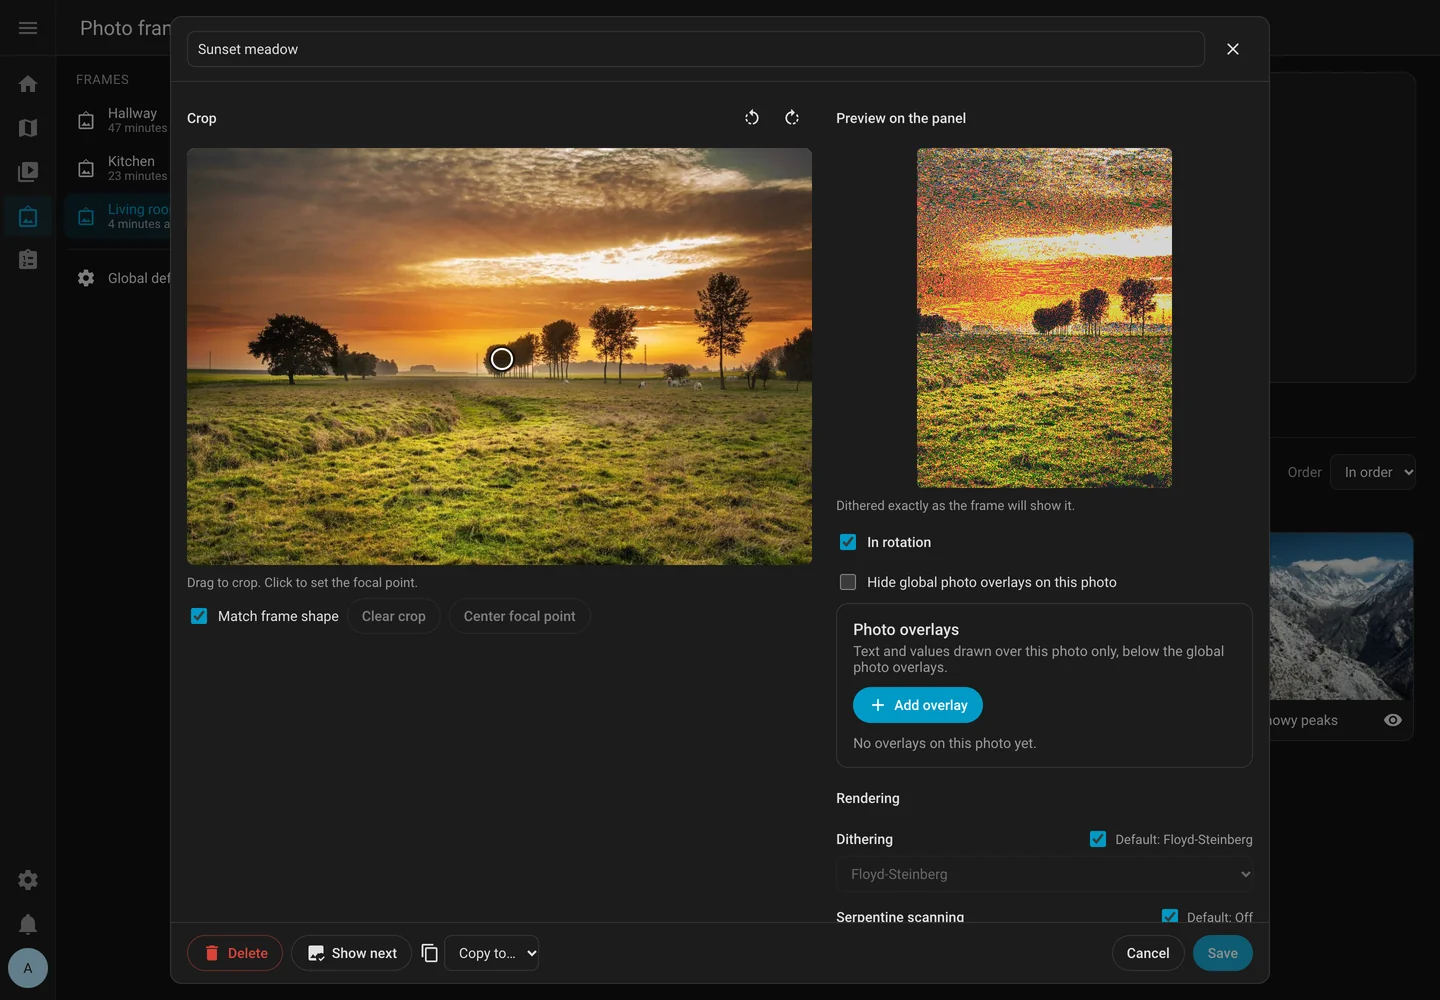
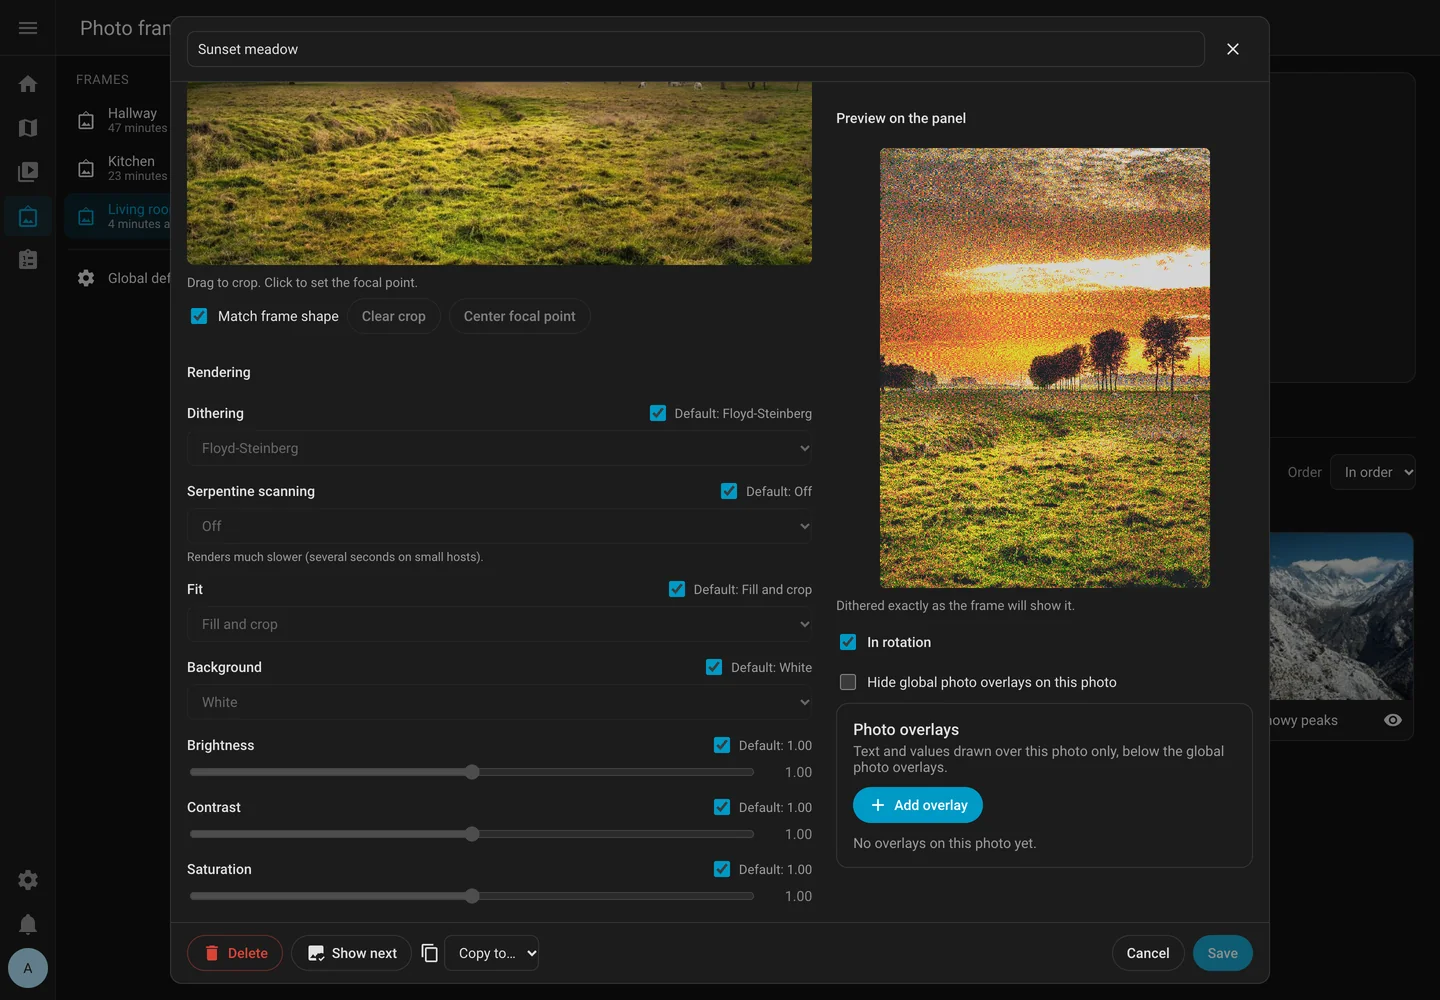
Keep the preview in view while editing a photo's rendering settings
The rendering settings move under the crop, and the right column (preview,
rotation, overlays) sticks while the left side scrolls. When the column is
taller than the dialog it scrolls on its own. The preview is a little
bigger, and the narrow layout shows crop, preview, then rendering.

diff --git a/frontend/src/photo-editor.ts b/frontend/src/photo-editor.ts
@@ -58,7 +58,24 @@ export class PhotoEditor extends LitElement {
     super.disconnectedCallback();
     window.removeEventListener("keydown", this.onKey);
     this.previewQueue.cancel();
+    this.bodyObserver.disconnect();
   }
+
+  /** Caps the sticky right column at the dialog body's visible height. */
+  private bodyObserver = new ResizeObserver(([entry]) =>
+    this.style.setProperty("--pp-body-height", `${(entry.target as HTMLElement).clientHeight}px`),
+  );
+
+  protected override updated() {
+    const body = this.renderRoot.querySelector(".body");
+    if (body && body !== this.observedBody) {
+      this.bodyObserver.disconnect();
+      this.bodyObserver.observe(body);
+      this.observedBody = body;
+    }
+  }
+
+  private observedBody: Element | null = null;
 
   private onKey = (ev: KeyboardEvent) => {
     if (ev.key === "Escape") this.close();
@@ -248,6 +265,10 @@ export class PhotoEditor extends LitElement {
   private renderCrop() {
     const l = localizer(this.hass);
     const coverFit = this.resolved.fit === "cover";
+    const shared: FrameSettings = {};
+    for (const key of SHARED_KEYS) {
+      if (this.draft[key] !== undefined) (shared as Record<string, unknown>)[key] = this.draft[key];
+    }
     return html`<section class="visual">
       <div class="section-title">
         <span>${l("crop")}</span>
@@ -292,6 +313,15 @@ export class PhotoEditor extends LitElement {
           ${l("reset_focal")}
         </button>
       </div>
+      <div class="render">
+        <div class="section-title"><span>${l("rendering_settings")}</span></div>
+        <pp-render-settings
+          .hass=${this.hass}
+          .value=${shared}
+          .inherited=${this.inherited}
+          @value-changed=${this.onSettings}
+        ></pp-render-settings>
+      </div>
     </section>`;
   }
 
@@ -299,10 +329,6 @@ export class PhotoEditor extends LitElement {
     if (!this.photo) return nothing;
     const l = localizer(this.hass);
     const otherFrames = this.frames.filter((f) => f.entry_id !== this.frame.entry_id);
-    const shared: FrameSettings = {};
-    for (const key of SHARED_KEYS) {
-      if (this.draft[key] !== undefined) (shared as Record<string, unknown>)[key] = this.draft[key];
-    }
     return html`<div class="scrim" @click=${(e: Event) => e.target === e.currentTarget && this.close()}>
       <div class="dialog card" role="dialog" aria-modal="true" aria-label=${l(this.isCard ? "edit_card" : "edit_photo")}>
         <header>
@@ -315,10 +341,12 @@ export class PhotoEditor extends LitElement {
           />
           <button class="icon-btn" title=${l("close")} @click=${this.close}>${icon(mdiClose)}</button>
         </header>
-        <div class="body">
+        <div class="body ${this.isCard ? "" : "photo-mode"}">
           ${this.isCard ? html`<section class="visual card-preview">${this.renderPreview()}</section>` : this.renderCrop()}
           <section class="settings">
-            ${this.isCard ? this.renderBackground() : this.renderPreview()}
+            ${this.isCard
+              ? this.renderBackground()
+              : html`<div class="preview-block">${this.renderPreview()}</div>`}
             <label class="check rotation">
               <input
                 type="checkbox"
@@ -336,15 +364,6 @@ export class PhotoEditor extends LitElement {
               ${l(this.isCard ? "hide_frame_overlays_card" : "hide_frame_overlays")}
             </label>
             <pp-overlays .hass=${this.hass} .frame=${this.frame} .photos=${this.photos.length ? this.photos : [this.photo]} .photo=${this.photo}></pp-overlays>
-            ${this.isCard
-              ? nothing
-              : html`<div class="section-title"><span>${l("rendering_settings")}</span></div>
-                  <pp-render-settings
-                    .hass=${this.hass}
-                    .value=${shared}
-                    .inherited=${this.inherited}
-                    @value-changed=${this.onSettings}
-                  ></pp-render-settings>`}
           </section>
         </div>
         ${this.error ? html`<div class="msg error">${l("error", { error: this.error })}</div>` : nothing}
@@ -462,7 +481,7 @@ export class PhotoEditor extends LitElement {
       }
       .preview {
         flex: none;
-        height: min(340px, 45vh);
+        height: min(440px, 55vh);
         max-width: 100%;
         margin: 0 auto;
         background: #d6d6d6;
@@ -471,6 +490,26 @@ export class PhotoEditor extends LitElement {
         display: grid;
         place-items: center;
         box-shadow: inset 0 0 0 1px var(--pp-border);
+      }
+      .preview-block {
+        display: flex;
+        flex-direction: column;
+        gap: 10px;
+      }
+      /* Photo mode: the right column stays in view while the crop and rendering settings
+         scroll, and scrolls on its own when it is taller than the dialog body. */
+      .photo-mode .settings {
+        position: sticky;
+        top: 0;
+        align-self: start;
+        max-height: calc(var(--pp-body-height, 100vh) - 32px);
+        overflow-y: auto;
+      }
+      .render {
+        display: flex;
+        flex-direction: column;
+        gap: 10px;
+        margin-top: 8px;
       }
       .card-preview .preview {
         height: min(560px, 65vh);
@@ -495,6 +534,23 @@ export class PhotoEditor extends LitElement {
       @media (max-width: 760px) {
         .body {
           grid-template-columns: 1fr;
+        }
+        .body.photo-mode {
+          gap: 10px;
+        }
+        /* One column: crop, preview, rendering settings, then the rest. */
+        .photo-mode .visual,
+        .photo-mode .settings {
+          display: contents;
+        }
+        .photo-mode .preview-block {
+          order: 1;
+        }
+        .photo-mode .render {
+          order: 2;
+        }
+        .photo-mode .settings > :not(.preview-block) {
+          order: 3;
         }
         .scrim {
           padding: 0;
